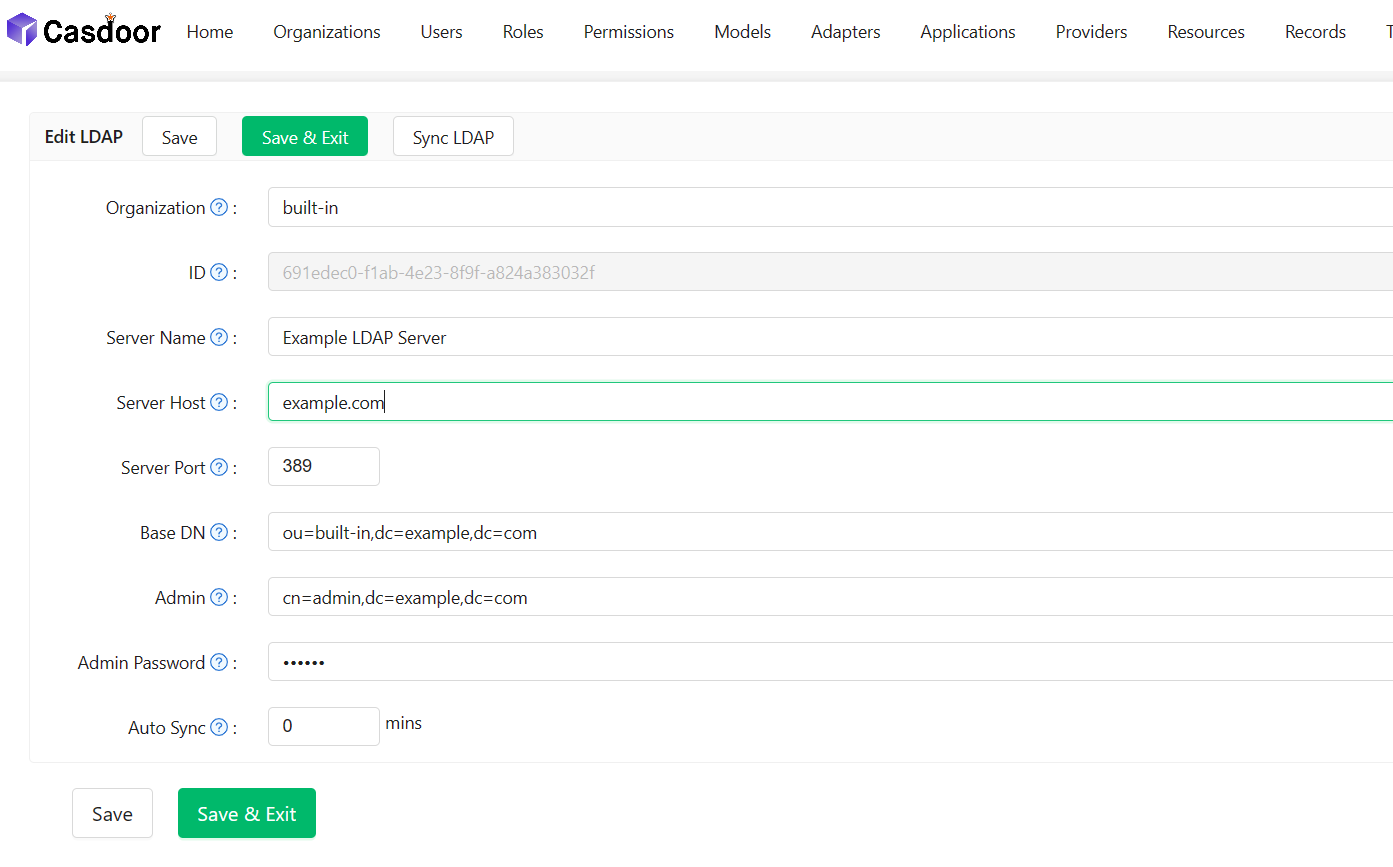
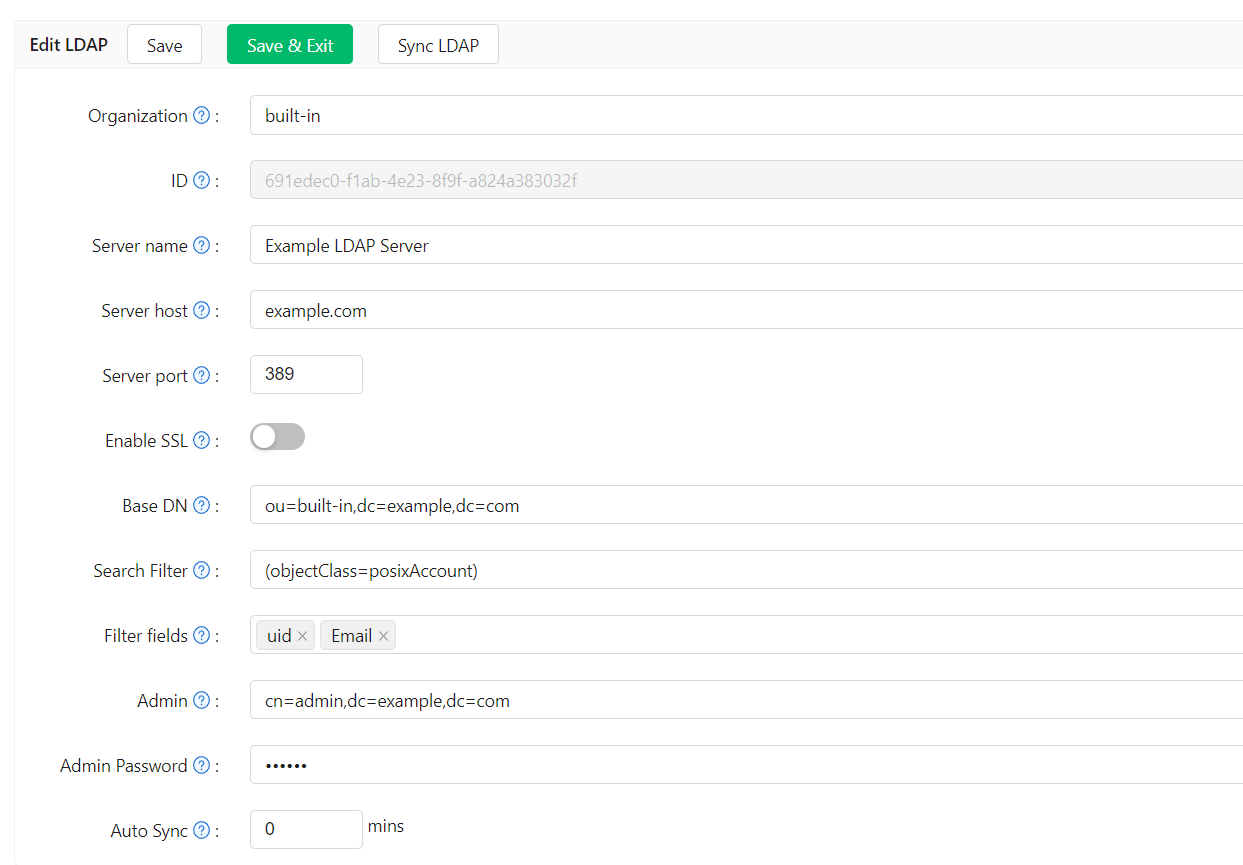
docs: add LDAP configuration description (#457)
* docs: add LDAP configuration description

* docs: add gif for config LDAP

diff --git a/docs/ldap/overview.md b/docs/ldap/overview.md
@@ -7,15 +7,15 @@ authors: [WindSpiritSR]
 
 Support for ldap server currenty has been introduced into Casdoor. Casdoor is able to synchronize users from ldap servers to Casdoor to use them as user accounts to log in, and authenticate them using the ldap servers. Casdoor also supports setting up cron job to synchronize users automatically on a regular basis.
 ## Detail about Casdoor-Ldap synchroniztion mechanism
-How Casdoor cooperates with a ldap server is described as follow:
+How Casdoor cooperates with a ldap server is described as follows:
 
-- 1. Synchronization: Casdoor can connect to ldap server fetch users' infomation, reads all users' information (include `uidNumber`,`uid`, `cn`, `gidNumber`, `mail`, `email`, `emailAddress`, `telephoneNumber`, `mobile`, `mobileTelephoneNumber`, `registeredAddress`, `postalAddress`), and creates Casdoor accounts for each user in ldap, and stores the accounts in database.
+1. Synchronization: Casdoor can connect to ldap server fetch users' information, reads all users' information (include `uidNumber`,`uid`, `cn`, `gidNumber`, `mail`, `email`, `emailAddress`, `telephoneNumber`, `mobile`, `mobileTelephoneNumber`, `registeredAddress`, `postalAddress`), and creates Casdoor accounts for each user in ldap, and stores the accounts in database.
 
-- 2. Authentication: As we have seen, Casdoor doesn't fetch ldap users' passwords to casdoor.Thus when the account which is synchronized from ldap server tries to log in through Casdoor, instead of checking password stored in casdoor's database, Casdoor connects to ldap server and verifies whether the user's password is correct.  
+2. Authentication: As we have seen, Casdoor doesn't fetch ldap users' passwords to Casdoor. Thus, when the account which is synchronized from ldap server tries to log in through Casdoor, instead of checking password stored in casdoor's database, Casdoor connects to ldap server and verifies whether the user's password is correct.  
 
-- 3. User distinguishment: Casdoor's synchronization only supports those ldap users which are subclass of `posixAccount`(to be precise, casdoor uses `(objectClass=posixAccount)` to query ldap users). Casdoor uses `uid` to exclusively identify a user, thus please make sure every ldap user has a different uid.
+3. User distinguished: Casdoor uses `uid` to exclusively identify a user, thus please make sure every ldap user has a different uid.
 
-Once a user is synchronized into Casdoor,that user's information is detached with the ldap user, which means, if you modify the a user's information in Casdoor, the user's information in ldap won't be modified and vice versa (except ldap user's password, we rely on it to authenticate a user)
+Once a user is synchronized into Casdoor,that user's information is detached with the ldap user, which means, if you modify the user's information in Casdoor, the user's information in ldap won't be modified and vice versa (except ldap user's password, we rely on it to authenticate a user)
 
 
 

diff --git a/docs/ldap/config.md b/docs/ldap/config.md
@@ -20,7 +20,7 @@ A friendly name is used by managers to identify different servers.
 
 #### Server Host
 
-LDAP server's host or IP address
+LDAP server's host or IP address.
 
 > e.g:
 > `example.com`
@@ -40,6 +40,20 @@ The admin account configured in casdoor should have at least read-only permissio
 
 > e.g:
 > `ou=Example,dc=example,dc=com`
+
+#### Search filter
+
+Casdoor uses search filter to query ldap users.
+
+> e.g:
+> `(objectClass=posixAccount)`
+
+#### Filter fields
+
+Filter fields are the identifier of the user in LDAP server, When you log in to Casdoor as an LDAP user. Casdoor regards the entered login
+username as the `uid` of LDAP user. You can also config other filed, such as `mail`, `mobile`.
+
+![LDAP_field](/img/ldap/ldap_field.gif)
 
 #### Admin
 
